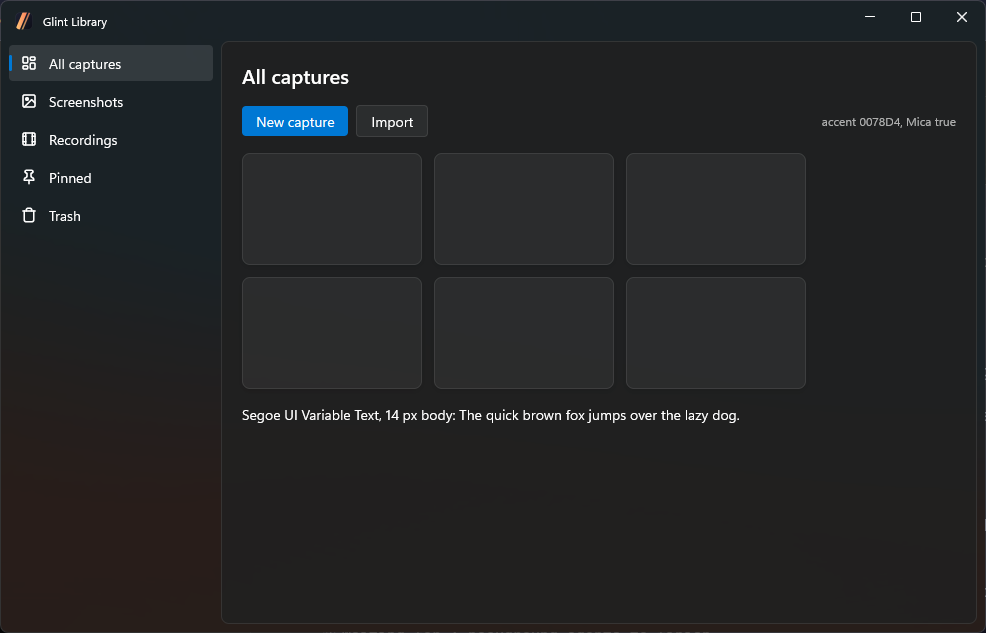
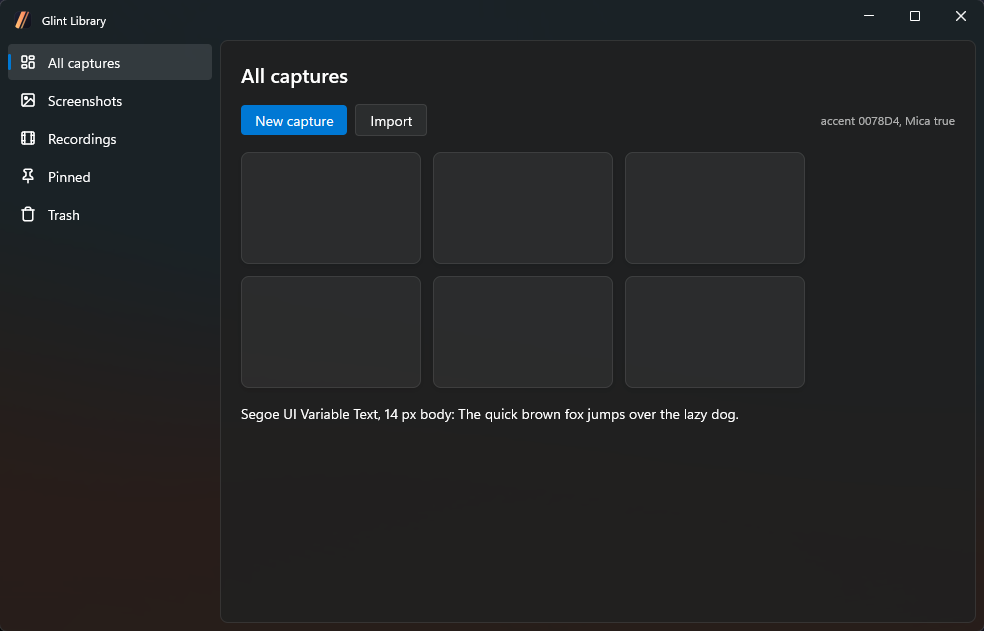
Make the cards, toast and recording outline flyouts
A Frameless Transparent window keeps its redirection bitmap and shows black where the view draws nothing; a flyout of a hidden owner has none, so it shows what is behind, and it never activates. The outline prototype checks the dashed border, click-through and exclusion from capture.

diff --git a/cmd/spike/cards_windows.go b/cmd/spike/cards_windows.go
@@ -1,6 +1,7 @@
 package main
 
 import (
+	"cmp"
 	"fmt"
 	"image"
 	"os"
@@ -122,29 +123,45 @@ func (s *stack) size() (int, int) {
 }
 
 // slideOut moves the window off the left edge of the screen over d, from a goroutine.
+// slideOut moves the window off the left edge of the screen over d, in physical pixels.
 func (s *stack) slideOut(d time.Duration) (steps int, last int) {
-	x0, y := s.win.Position()
-	w, _ := s.win.Size()
+	r := windowRect(s.hwnd)
+	x0, end := int(r.Left), -int(r.w())-20
 	t0 := time.Now()
+	move := func(x int) {
+		pSetWindowPos.Call(s.hwnd, 0, uintptr(x), uintptr(r.Top), 0, 0, 0x0001|swpNoZOrder|swpNoActivate)
+	}
 	for {
 		t := float64(time.Since(t0)) / float64(d)
 		if t >= 1 {
 			break
 		}
 		ease := 1 - (1-t)*(1-t)*(1-t)
-		s.win.SetPosition(x0+int(float64(-w-20-x0)*ease), y)
+		move(x0 + int(float64(end-x0)*ease))
 		steps++
 		time.Sleep(7 * time.Millisecond)
 	}
-	s.win.SetPosition(-w-20, y)
-	last, _ = s.win.Position()
-	return steps, last
+	move(end)
+	return steps, int(windowRect(s.hwnd).Left)
 }
 
-func newStack(cards []*card, noActivate bool) *stack {
+// newStack makes the card window. -variant flyout (the default) is a flyout of a hidden owner:
+// no redirection bitmap, so the space around the cards shows what is behind, and
+// WS_EX_NOACTIVATE. window is a Frameless Transparent window, whose transparent parts are black,
+// and window-noactivate the same with WS_EX_NOACTIVATE added through NativeHandle.
+func newStack(cards []*card) *stack {
 	s := &stack{cards: cards}
 	w, h := s.size()
 	work := mygo.Screen.PrimaryDisplay().WorkArea
+	if cmp.Or(*variant, "flyout") == "flyout" {
+		owner := mygo.NewWindow(mygo.WindowOptions{Title: "Glint owner", Width: 1, Height: 1, Frameless: true, SkipTaskbar: true, Hidden: true})
+		s.win = mygo.NewFlyout(mygo.FlyoutOptions{Parent: owner, Width: w, Height: h, Hidden: true, Content: ui.View(s.view)})
+		s.hwnd = s.win.NativeHandle()
+		x, y := work.X+cardEdge-10, work.Y+work.Height-h-cardEdge+10
+		placePhysical(s.hwnd, rect{int32(x), int32(y), int32(x + w), int32(y + h)})
+		return s
+	}
+	noActivate := *variant == "window-noactivate"
 	s.win = mygo.NewWindow(mygo.WindowOptions{
 		Title:         "Glint cards",
 		X:             work.X + cardEdge - 10,
@@ -184,7 +201,7 @@ func runCards() {
 			cards = append(cards, &card{id: i, path: path, thumb: ui.NewBitmap(img)})
 		}
 		if !*auto {
-			s := newStack(cards, false)
+			s := newStack(cards)
 			s.win.ShowInactive()
 			return
 		}
@@ -209,11 +226,16 @@ func driveCards(cards []*card, dir string) {
 	check(&failures, other != 0, "another app has the keyboard")
 
 	var s *stack
-	mygo.RunOnMain(func() { s = newStack(cards, false); s.win.ShowInactive() })
+	pSetWindowPos.Call(other, 0, 0, 600, 600, 480, swpNoZOrder)
+	time.Sleep(500 * time.Millisecond)
+	behind := captureScreen(rect{4, 704, 6, 706}).RGBAAt(0, 0)
+	mygo.RunOnMain(func() { s = newStack(cards); s.win.ShowInactive() })
 	time.Sleep(400 * time.Millisecond)
 	check(&failures, foreground() == other, "ShowInactive leaves the other app foreground (%q)", windowText(foreground()))
 	wr := windowRect(s.hwnd)
 	logf("stack window %v exstyle %#x corner pref %d", wr, exStyle(s.hwnd), cornerPreference(s.hwnd))
+	gap := captureScreen(rect{wr.Left + 2, wr.Top + 2, wr.Left + 4, wr.Top + 4}).RGBAAt(0, 0)
+	check(&failures, gap == behind, "the space around the cards shows the app behind (%v; before the stack showed %v)", gap, behind)
 	first := image.Rect(int(wr.Left)+10, int(wr.Top)+10, int(wr.Left)+10+cardW, int(wr.Top)+10+cardH)
 	moveTo(int32(first.Max.X+150), int32(first.Min.Y-100))
 	time.Sleep(200 * time.Millisecond)
@@ -231,21 +253,8 @@ func driveCards(cards []*card, dir string) {
 	click(int32(first.Min.X+cardW/2), int32(first.Min.Y+cardH/2-19))
 	got := waitString(clicks, time.Second)
 	check(&failures, got == "Copy", "the Copy pill takes a click (%q)", got)
-	logf("after clicking the card, foreground is %q (stack %v)", windowText(foreground()), foreground() == s.hwnd)
-
-	mygo.RunOnMain(func() { s.win.Destroy() })
-	pSetForegroundWindow.Call(other)
-	time.Sleep(200 * time.Millisecond)
-	mygo.RunOnMain(func() { s = newStack(cards, true); s.win.ShowInactive() })
-	mygo.RunOnMain(func() { s.onClick = func(_ *card, what string) { clicks <- what } })
-	time.Sleep(400 * time.Millisecond)
-	wr = windowRect(s.hwnd)
-	first = image.Rect(int(wr.Left)+10, int(wr.Top)+10, int(wr.Left)+10+cardW, int(wr.Top)+10+cardH)
-	moveTo(int32(first.Min.X+cardW/2), int32(first.Min.Y+20))
-	time.Sleep(300 * time.Millisecond)
-	click(int32(first.Min.X+cardW/2), int32(first.Min.Y+cardH/2-19))
-	got = waitString(clicks, time.Second)
-	check(&failures, got == "Copy" && foreground() == other, "with WS_EX_NOACTIVATE the click lands (%q) and the other app stays foreground (%q)", got, windowText(foreground()))
+	activated := foreground() == s.hwnd
+	check(&failures, activated == (*variant == "window"), "clicking the card activates it only as a plain window (foreground %q)", windowText(foreground()))
 
 	dest := filepath.Join(dir, fmt.Sprintf("glint-drop-%d", os.Getpid()))
 	os.MkdirAll(dest, 0o755)

diff --git a/cmd/spike/outline_windows.go b/cmd/spike/outline_windows.go
@@ -1,0 +1,87 @@
+package main
+
+import (
+	"cmp"
+	"image"
+	"os"
+	"os/exec"
+	"time"
+
+	"github.com/egoist/mygo"
+	"github.com/egoist/mygo/ui"
+)
+
+// runOutline is the dashed outline around an area being recorded: a transparent window that
+// clicks pass through and that screen capture leaves out.
+func runOutline() {
+	mygo.App.OnWindowAllClosed(func() {})
+	mygo.App.WhenReady(func() {
+		area := image.Rect(500, 300, 1100, 700)
+		const pad = 4
+		view := ui.View(func(c *ui.Context) {
+			c.Root().Background(ui.Transparent)
+			ui.Box(c).Fill().Border(2, ui.RGB(0xE8, 0x11, 0x23)).BorderStyle(ui.BorderDashed).PassThrough()
+		})
+		bounds := rect{int32(area.Min.X - pad), int32(area.Min.Y - pad), int32(area.Max.X + pad), int32(area.Max.Y + pad)}
+		var win *mygo.Window
+		if cmp.Or(*variant, "flyout") == "flyout" {
+			// A flyout has no redirection bitmap, so what the view leaves transparent shows what
+			// is behind; a plain Transparent window keeps its bitmap and shows black there.
+			owner := mygo.NewWindow(mygo.WindowOptions{Title: "Glint owner", Width: 1, Height: 1, Frameless: true, SkipTaskbar: true, Hidden: true})
+			win = mygo.NewFlyout(mygo.FlyoutOptions{Parent: owner, Width: int(bounds.w()), Height: int(bounds.h()), Hidden: true, Content: view})
+		} else {
+			win = mygo.NewWindow(mygo.WindowOptions{
+				Title: "Glint outline", X: int(bounds.Left), Y: int(bounds.Top), Width: int(bounds.w()), Height: int(bounds.h()),
+				Frameless: true, Transparent: true, AlwaysOnTop: true, SkipTaskbar: true, Hidden: true, DisableResize: true, DisableShadow: true,
+				Content: view,
+			})
+		}
+		placePhysical(win.NativeHandle(), bounds)
+		win.SetIgnoreMouseEvents(true)
+		logf("outline %s: exstyle %#x", cmp.Or(*variant, "flyout"), exStyle(win.NativeHandle()))
+		if !*auto {
+			win.ShowInactive()
+			return
+		}
+		go func() {
+			failures := 0
+			defer finish(&failures)
+			fg := exec.Command(os.Args[0], "-mode", "foreground")
+			fg.Start()
+			defer fg.Process.Kill()
+			other := waitForeground("spike foreground")
+			pSetWindowPos.Call(other, 0, uintptr(area.Min.X-60), uintptr(area.Min.Y-60), uintptr(area.Dx()+120), uintptr(area.Dy()+120), swpNoZOrder)
+			hwnd := win.NativeHandle()
+			mygo.RunOnMain(func() { win.ShowInactive() })
+			time.Sleep(500 * time.Millisecond)
+			r := windowRect(hwnd)
+			shot := captureScreen(r)
+			savePNG(out("outline.png"), shot)
+			red := 0
+			for x := 0; x < int(r.w()); x++ {
+				if c := shot.RGBAAt(x, 1); c.R > 180 && c.G < 80 {
+					red++
+				}
+			}
+			check(&failures, red > int(r.w())/4 && red < int(r.w())*3/4, "the dashed outline draws: %d of %d pixels of the top edge are red", red, r.w())
+			mid := shot.RGBAAt(int(r.w())/2, int(r.h())/2)
+			check(&failures, mid.G > 120 && mid.R < 40, "the transparent inside shows the app behind it in a GDI capture (%v, the other app is green)", mid)
+			under, _, _ := pWindowFromPoint.Call(uintptr(int64(area.Min.Y+150)<<32 | int64(area.Min.X+200)))
+			root, _, _ := pGetAncestor.Call(under, 2)
+			check(&failures, root == other && windowText(foreground()) == "spike foreground", "clicks inside the outline reach the app behind it (%q)", windowText(root))
+			onEdge, _, _ := pWindowFromPoint.Call(uintptr(int64(r.Top+1)<<32 | int64(r.Left+int32(r.w())/2)))
+			onEdge, _, _ = pGetAncestor.Call(onEdge, 2)
+			logf("window under the outline's own border: %q (WS_EX_TRANSPARENT %v)", windowText(onEdge), exStyle(hwnd)&0x20 != 0)
+			mygo.RunOnMain(func() { win.SetContentProtection(true) })
+			time.Sleep(200 * time.Millisecond)
+			hidden := captureScreen(r)
+			red = 0
+			for x := 0; x < int(r.w()); x++ {
+				if c := hidden.RGBAAt(x, 1); c.R > 180 && c.G < 80 {
+					red++
+				}
+			}
+			check(&failures, red == 0, "with content protection a recording leaves the outline out (%d red pixels)", red)
+		}()
+	})
+}

diff --git a/cmd/spike/toast_windows.go b/cmd/spike/toast_windows.go
@@ -13,18 +13,22 @@ import (
 // toast is Glint's transient message: a pill near the bottom centre of the work area that shows
 // without taking the keyboard and fades out, here by animating the window's opacity.
 type toast struct {
-	win  *mygo.Window
-	hwnd uintptr
-	msg  string
+	win   *mygo.Window
+	owner *mygo.Window
+	hwnd  uintptr
+	msg   string
 }
 
 func showToast(msg string) *toast {
 	t := &toast{msg: msg}
 	const w, h = 320, 50
 	work := mygo.Screen.DisplayNearestPoint(mygo.Screen.CursorScreenPoint()).WorkArea
-	t.win = mygo.NewWindow(mygo.WindowOptions{
-		Title: "Glint toast", Width: w, Height: h, X: work.X + (work.Width-w)/2, Y: work.Y + work.Height - h - 24,
-		Frameless: true, Transparent: true, AlwaysOnTop: true, SkipTaskbar: true, Hidden: true, DisableResize: true, DisableShadow: true,
+	// A flyout of a hidden owner: without a redirection bitmap the corners around the pill show
+	// what is behind, where a Transparent window shows black.
+	t.owner = mygo.NewWindow(mygo.WindowOptions{Title: "Glint owner", Width: 1, Height: 1, Frameless: true, SkipTaskbar: true, Hidden: true})
+	x, y := work.X+(work.Width-w)/2, work.Y+work.Height-h-24
+	t.win = mygo.NewFlyout(mygo.FlyoutOptions{
+		Parent: t.owner, Width: w, Height: h, Hidden: true,
 		Content: ui.View(func(c *ui.Context) {
 			p := theme.Apply(c)
 			c.Root().Background(ui.Transparent)
@@ -36,6 +40,7 @@ func showToast(msg string) *toast {
 		}),
 	})
 	t.hwnd = t.win.NativeHandle()
+	placePhysical(t.hwnd, rect{int32(x), int32(y), int32(x + w), int32(y + h)})
 	t.win.ShowInactive()
 	return t
 }
@@ -49,6 +54,7 @@ func (t *toast) fade(d time.Duration) int {
 		time.Sleep(8 * time.Millisecond)
 	}
 	t.win.Destroy()
+	t.owner.Destroy()
 	return steps
 }
 
@@ -82,6 +88,7 @@ func runToast() {
 			time.Sleep(100 * time.Millisecond)
 			after := captureScreen(r)
 			c := full.RGBAAt(int(r.w())/2, int(r.h())/2)
+			check(&failures, full.RGBAAt(1, 1) == after.RGBAAt(1, 1), "the corner outside the pill shows what is behind (%v, behind %v)", full.RGBAAt(1, 1), after.RGBAAt(1, 1))
 			m := mid.RGBAAt(int(r.w())/2, int(r.h())/2)
 			a := after.RGBAAt(int(r.w())/2, int(r.h())/2)
 			logf("toast centre pixel: shown %v, mid-fade %v, gone %v; %d opacity steps in 300 ms", c, m, a, steps)

diff --git a/cmd/spike/main_windows.go b/cmd/spike/main_windows.go
@@ -18,7 +18,7 @@ import (
 )
 
 var (
-	mode   = flag.String("mode", "overlay", "overlay, cards, protect, tray, editor, chrome, video, toast, foreground")
+	mode   = flag.String("mode", "overlay", "overlay, cards, protect, tray, editor, chrome, video, toast, outline, foreground")
 	auto   = flag.Bool("auto", false, "drive the prototype, measure, and quit")
 	outDir = flag.String("out", "cmd/spike/evidence", "where screenshots go")
 	start  = time.Now()
@@ -63,6 +63,7 @@ func main() {
 		"video":      runVideo,
 		"toast":      runToast,
 		"foreground": runForeground,
+		"outline":    runOutline,
 	}
 	run, ok := modes[*mode]
 	if !ok {

diff --git a/cmd/spike/overlay_windows.go b/cmd/spike/overlay_windows.go
@@ -489,6 +489,7 @@ func runForeground() {
 	mygo.App.WhenReady(func() {
 		var w *mygo.Window
 		w = mygo.NewWindow(mygo.WindowOptions{Title: "spike foreground", Width: 360, Height: 200, X: 40, Y: 40, Content: ui.View(func(c *ui.Context) {
+			c.Root().Background(ui.RGB(0, 160, 0))
 			ui.Box(c).Fill().Focusable().AutoFocus().HandleInput(func(ev ui.InputEvent) bool {
 				if ev.Kind == ui.InputKeyDown {
 					logf("foreground app got key %v", ev.Key)

diff --git a/cmd/spike/chrome_windows.go b/cmd/spike/chrome_windows.go
@@ -110,7 +110,7 @@ func driveChrome(a *chrome, win *mygo.Window) {
 	for _, src := range []mygo.ThemeSource{mygo.ThemeDark, mygo.ThemeLight, mygo.ThemeSystem} {
 		mygo.RunOnMain(func() { mygo.Theme.SetSource(src) })
 		time.Sleep(600 * time.Millisecond)
-		wr := frameRect(hwnd)
+		wr := clientRect(hwnd)
 		shot := captureScreen(wr)
 		savePNG(out("chrome-"+string(src)+".png"), shot)
 		cap := shot.RGBAAt(int(wr.w())-20, 15)
